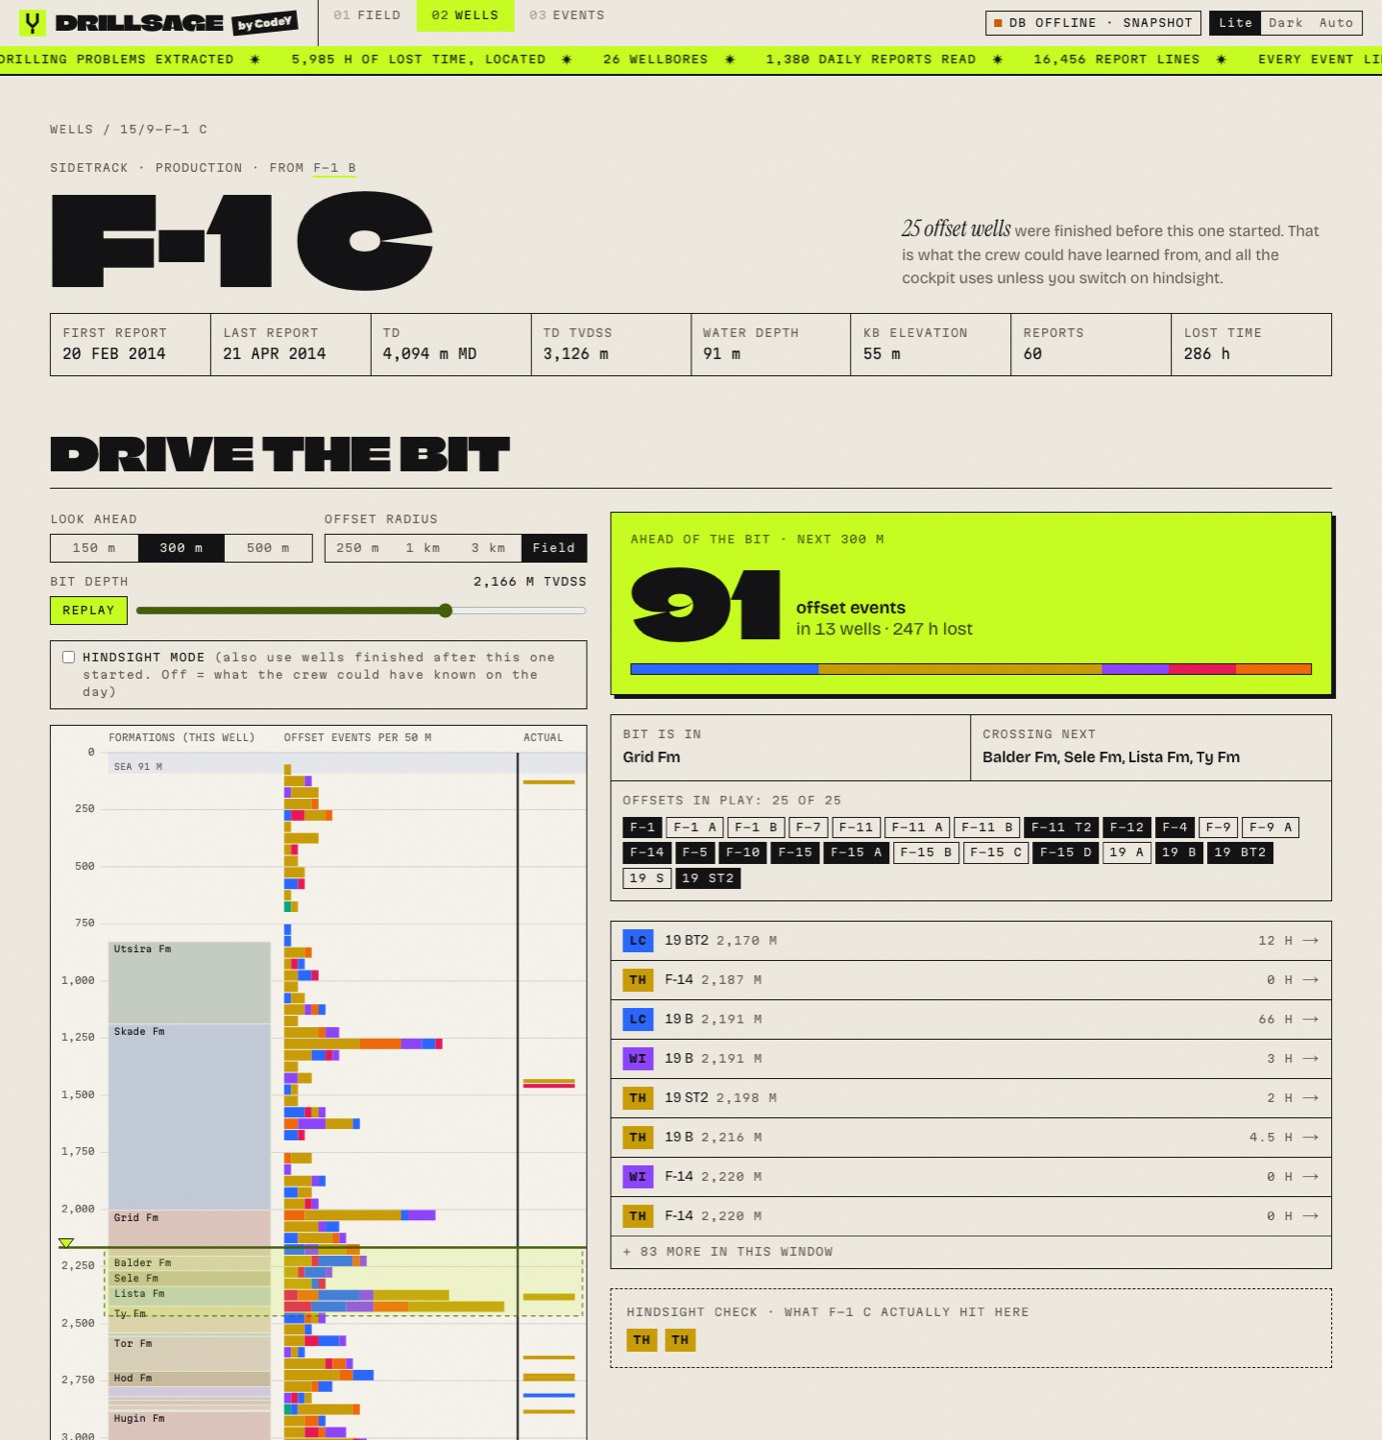
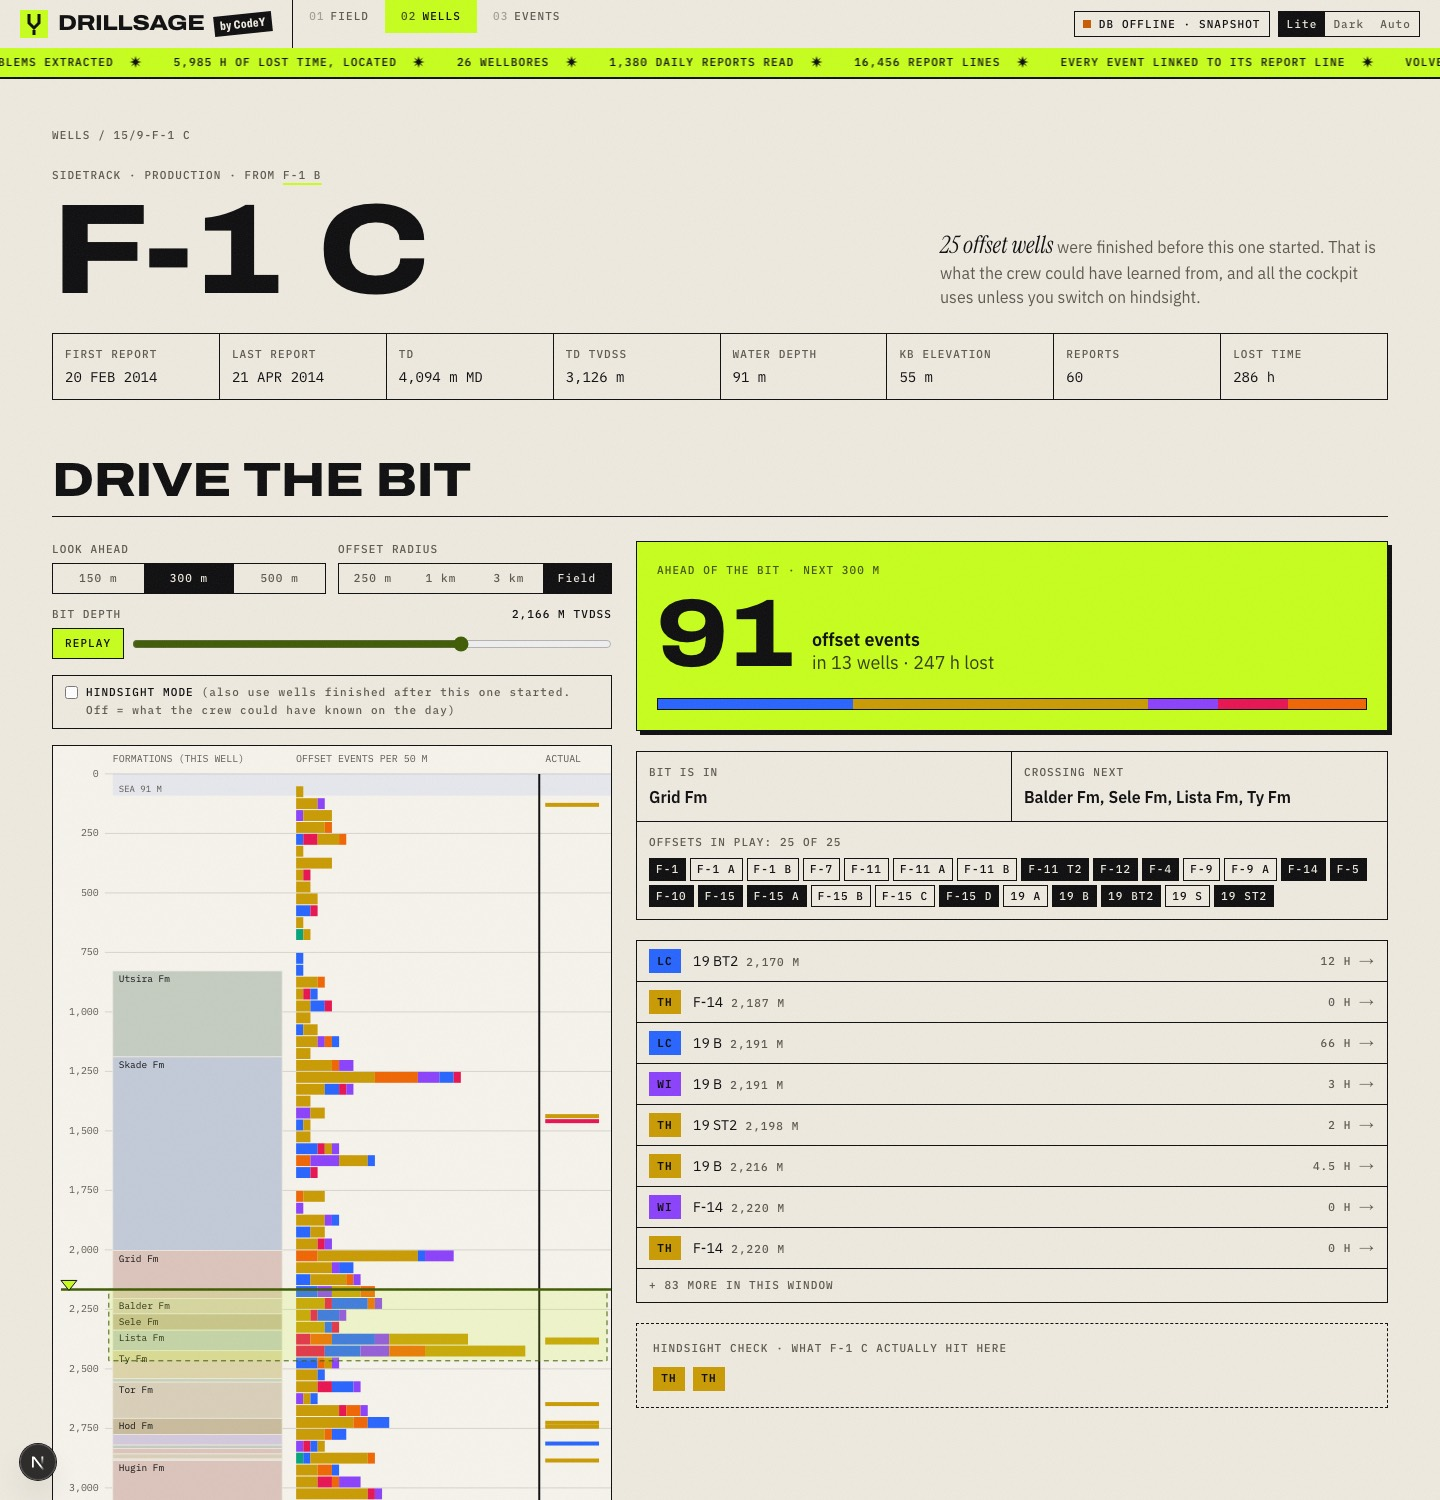
style(web): formal type system (Archivo, IBM Plex Sans and Mono) and refreshed screenshots

diff --git a/apps/web/src/app/globals.css b/apps/web/src/app/globals.css
@@ -117,9 +117,9 @@
   --color-shadow: var(--shadow);
   --font-sans: var(--font-body);
   --font-mono: var(--font-data);
-  --font-display: var(--font-melt);
+  --font-display: var(--font-display-face);
   --font-serif: var(--font-accent);
-  --font-glitch: var(--font-sticker);
+  --font-glitch: var(--font-display-face);
 
   --animate-marquee: marquee 38s linear infinite;
   --animate-blink: blink 1.1s steps(1) infinite;
@@ -132,12 +132,6 @@
   }
   to {
     transform: translateX(-50%);
-  }
-}
-
-@keyframes jitter {
-  50% {
-    transform: translate(0.02em, -0.015em) skewX(-2deg);
   }
 }
 
@@ -233,34 +227,35 @@
 }
 
 @layer components {
-  /* Climate Crisis: its YEAR axis melts the letters from 1979 (full) to 2050 (thin). */
-  .melt {
-    font-family: var(--font-melt);
-    font-variation-settings: "YEAR" 1979;
-    transition: font-variation-settings 900ms cubic-bezier(0.2, 0.8, 0.2, 1);
-    line-height: 0.86;
-    letter-spacing: -0.01em;
+  /* Headlines: Archivo, extra bold and widened like engineering signage. On hover the width
+     eases back to normal: a subtle "breath", readable at every moment. */
+  .headline {
+    font-family: var(--font-display-face);
+    font-weight: 800;
+    font-variation-settings: "wdth" 118;
+    transition: font-variation-settings 700ms cubic-bezier(0.2, 0.8, 0.2, 1);
+    line-height: 0.92;
+    letter-spacing: -0.015em;
   }
-  /* Hover melts only part-way (still readable) and splits into lime/pink like a bad signal. */
-  .melt-hover:hover .melt,
-  .melt.melt-hover:hover {
-    font-variation-settings: "YEAR" 2012;
-    text-shadow:
-      0.045em 0 0 var(--hz-wc),
-      -0.045em 0 0 var(--brand);
-    animation: jitter 180ms steps(2) 3;
+  .headline-hover:hover .headline,
+  .headline.headline-hover:hover {
+    font-variation-settings: "wdth" 100;
   }
-  .melt-thin {
-    font-variation-settings: "YEAR" 2035;
+
+  /* Sticker tags: the same family, condensed and heavy, like a safety label. */
+  .font-glitch {
+    font-weight: 800;
+    font-variation-settings: "wdth" 72;
+    letter-spacing: 0.03em;
   }
 
   /* Mono labels: wide, small, tracked. */
   .label {
     font-family: var(--font-data);
     font-size: 0.6875rem;
-    letter-spacing: 0.08em;
+    font-weight: 500;
+    letter-spacing: 0.1em;
     text-transform: uppercase;
-    font-variation-settings: "wdth" 112.5;
   }
 
   /* Hard offset shadow: the sticker look. */

diff --git a/apps/web/src/app/layout.tsx b/apps/web/src/app/layout.tsx
@@ -1,11 +1,5 @@
 import type { Metadata, Viewport } from "next";
-import {
-  Bricolage_Grotesque,
-  Climate_Crisis,
-  Instrument_Serif,
-  Martian_Mono,
-  Rubik_Glitch,
-} from "next/font/google";
+import { Archivo, IBM_Plex_Mono, IBM_Plex_Sans, Instrument_Serif } from "next/font/google";
 import type { ReactNode } from "react";
 
 import { AppShell } from "@/components/app-shell";
@@ -14,17 +8,19 @@ import { TAGLINE } from "@/lib/constants";
 
 import "./globals.css";
 
-/** Display: Climate Crisis. Its YEAR axis melts the letters; hover the wordmark. */
-const melt = Climate_Crisis({ variable: "--font-melt", subsets: ["latin"], axes: ["YEAR"] });
-/** Data and labels: a wide monospace, so depths line up like a mud log. */
-const data = Martian_Mono({ variable: "--font-data", subsets: ["latin"], axes: ["wdth"] });
-/** Stickers and team branding: a glitched grotesque. */
-const glitch = Rubik_Glitch({ variable: "--font-sticker", subsets: ["latin"], weight: "400" });
-const body = Bricolage_Grotesque({
-  variable: "--font-body",
+/** Headlines, wordmark, big numbers and stickers: Archivo, whose width axis we widen for display. */
+const display = Archivo({
+  variable: "--font-display-face",
   subsets: ["latin"],
-  axes: ["opsz", "wdth"],
+  axes: ["wdth"],
 });
+/** Data and labels: a report-style monospace, so depths line up like a mud log. */
+const data = IBM_Plex_Mono({
+  variable: "--font-data",
+  subsets: ["latin"],
+  weight: ["400", "500", "600"],
+});
+const body = IBM_Plex_Sans({ variable: "--font-body", subsets: ["latin"], axes: ["wdth"] });
 const accent = Instrument_Serif({
   variable: "--font-accent",
   subsets: ["latin"],
@@ -53,9 +49,7 @@ export const viewport: Viewport = {
 export default function RootLayout({ children }: Readonly<{ children: ReactNode }>) {
   return (
     <html lang="en" suppressHydrationWarning>
-      <body
-        className={`${melt.variable} ${data.variable} ${body.variable} ${accent.variable} ${glitch.variable}`}
-      >
+      <body className={`${display.variable} ${data.variable} ${body.variable} ${accent.variable}`}>
         <ThemeProvider
           attribute="class"
           defaultTheme="light"

diff --git a/apps/web/src/app/page.tsx b/apps/web/src/app/page.tsx
@@ -121,7 +121,7 @@ export default async function FieldPage() {
               Oil India Ltd
             </li>
           </ul>
-          <h1 className="melt melt-hover text-[clamp(2.25rem,9.5vw,9rem)] uppercase">
+          <h1 className="headline headline-hover text-[clamp(2.25rem,9.5vw,9rem)] uppercase">
             See{" "}
             <span className="inline-block -rotate-2 bg-brand px-[0.08em] text-brand-foreground">
               trouble
@@ -169,7 +169,7 @@ export default async function FieldPage() {
             className={`flex flex-col gap-3 p-5 md:p-7 ${i > 0 ? "border-l" : ""} ${i > 1 ? "max-lg:border-t" : ""} ${i === 2 ? "max-lg:border-l-0" : ""}`}
           >
             <span className="label text-muted-foreground">{stat.label}</span>
-            <span className="melt text-[clamp(1.75rem,3.7vw,3.9rem)] whitespace-nowrap">
+            <span className="headline text-[clamp(1.75rem,3.7vw,3.9rem)] whitespace-nowrap">
               {stat.value}
             </span>
             <span className="label text-brand-text">{stat.note}</span>
@@ -200,9 +200,9 @@ export default async function FieldPage() {
         <SectionHead title="How it works" />
         <ol className="grid gap-4 md:grid-cols-3">
           {STEPS.map((step) => (
-            <li key={step.n} className="melt-hover brutal flex flex-col gap-4 bg-surface p-6">
-              <span className="melt text-7xl text-brand-text">{step.n}</span>
-              <h3 className="melt text-3xl uppercase">{step.title}</h3>
+            <li key={step.n} className="headline-hover brutal flex flex-col gap-4 bg-surface p-6">
+              <span className="headline text-7xl text-brand-text">{step.n}</span>
+              <h3 className="headline text-3xl uppercase">{step.title}</h3>
               <p className="leading-relaxed text-pretty text-muted-foreground">{step.body}</p>
             </li>
           ))}

diff --git a/apps/web/src/app/events/page.tsx b/apps/web/src/app/events/page.tsx
@@ -113,7 +113,7 @@ export default async function EventsPage({ searchParams }: { searchParams: Searc
     <div className="mx-auto flex max-w-[1400px] flex-col gap-10 px-4 pt-10 md:px-8 md:pt-16">
       <header className="grid items-end gap-6 lg:grid-cols-[1fr_auto]">
         <div className="flex flex-col gap-4">
-          <h1 className="melt text-[clamp(2rem,8vw,7rem)] uppercase">The logbook.</h1>
+          <h1 className="headline text-[clamp(2rem,8vw,7rem)] uppercase">The logbook.</h1>
           <p className="max-w-2xl text-lg text-pretty text-muted-foreground">
             Every problem DrillSage pulled out of the daily reports, with the words that gave it
             away highlighted in the original text.
@@ -121,7 +121,7 @@ export default async function EventsPage({ searchParams }: { searchParams: Searc
         </div>
         <div className="brutal bg-surface px-5 py-4">
           <p className="label text-muted-foreground">Matching</p>
-          <p className="melt text-6xl">{int(page.total)}</p>
+          <p className="headline text-6xl">{int(page.total)}</p>
           <p className="label text-brand-text">{hours(page.npt_h)} lost</p>
         </div>
       </header>
@@ -198,7 +198,7 @@ export default async function EventsPage({ searchParams }: { searchParams: Searc
 
       {page.items.length === 0 ? (
         <div className="border border-dashed px-6 py-16 text-center">
-          <p className="melt text-4xl uppercase">Dry hole.</p>
+          <p className="headline text-4xl uppercase">Dry hole.</p>
           <p className="mt-3 text-muted-foreground">
             Nothing matches. Loosen a filter or search for something else.
           </p>

diff --git a/apps/web/src/app/wells/page.tsx b/apps/web/src/app/wells/page.tsx
@@ -62,7 +62,7 @@ function WellCard({
   return (
     <Link
       href={`/wells/${wellSlug(well.name)}`}
-      className="melt-hover brutal-hover group flex gap-4 border bg-surface p-4 hover:border-foreground"
+      className="headline-hover brutal-hover group flex gap-4 border bg-surface p-4 hover:border-foreground"
     >
       <MiniStrip well={well} events={events.filter((e) => e.geological)} maxDepth={maxDepth} />
       <div className="flex min-w-0 flex-1 flex-col justify-between gap-3">
@@ -71,7 +71,7 @@ function WellCard({
             {well.kind.replaceAll("_", " ")}
             {well.parent_name && ` of ${shortName(well.parent_name)}`}
           </p>
-          <h3 className="melt mt-1 text-3xl uppercase">{shortName(well.name)}</h3>
+          <h3 className="headline mt-1 text-3xl uppercase">{shortName(well.name)}</h3>
         </div>
         <dl className="label grid grid-cols-2 gap-x-3 gap-y-1 text-muted-foreground">
           <dt>Events</dt>
@@ -104,7 +104,7 @@ export default async function WellsPage() {
   return (
     <div className="mx-auto flex max-w-[1400px] flex-col gap-16 px-4 pt-10 md:px-8 md:pt-16">
       <header className="flex flex-col gap-4">
-        <h1 className="melt text-[clamp(2rem,8vw,7rem)] uppercase">
+        <h1 className="headline text-[clamp(2rem,8vw,7rem)] uppercase">
           {field.wellbores.length} holes
           <br />
           in the ground.

diff --git a/apps/web/src/components/wordmark.tsx b/apps/web/src/components/wordmark.tsx
@@ -1,18 +1,18 @@
 import { cn } from "@/lib/utils";
 
 /**
- * The DrillSage wordmark: a lime bit-block and the name set in Climate Crisis, whose letters
- * melt when hovered. The block's notch is the bit; the bar under it is the hole.
+ * The DrillSage wordmark: a lime bit-block and the name in widened Archivo, which eases to its
+ * normal width when hovered. The block's notch is the bit; the bar under it is the hole.
  */
 export function Wordmark({ className }: { className?: string }) {
   return (
-    <span className={cn("melt-hover inline-flex items-center gap-2.5", className)}>
+    <span className={cn("headline-hover inline-flex items-center gap-2.5", className)}>
       <svg viewBox="0 0 28 28" className="size-7 shrink-0" aria-hidden>
         <rect width="28" height="28" className="fill-brand" />
         <path d="M9 4v9l5 5 5-5V4" className="fill-none stroke-brand-foreground" strokeWidth="3" />
         <rect x="12.5" y="20" width="3" height="5" className="fill-brand-foreground" />
       </svg>
-      <span className="melt text-[1.35rem] tracking-tight uppercase">DrillSage</span>
+      <span className="headline text-[1.35rem] tracking-tight uppercase">DrillSage</span>
     </span>
   );
 }

diff --git a/apps/web/src/app/events/[id]/page.tsx b/apps/web/src/app/events/[id]/page.tsx
@@ -88,7 +88,7 @@ export default async function EventPage({ params }: Params) {
           </span>
         </div>
         <h1
-          className="melt melt-hover text-[clamp(2rem,7vw,6rem)] uppercase"
+          className="headline headline-hover text-[clamp(2rem,7vw,6rem)] uppercase"
           style={{ color: meta.color }}
         >
           {meta.label}
@@ -164,7 +164,7 @@ export default async function EventPage({ params }: Params) {
         className="perforated self-start bg-[#f4f1e8] px-6 py-9 font-mono text-[#0b0b0c] shadow-[8px_8px_0_0_var(--shadow)] md:px-8"
       >
         <header className="flex flex-col items-center gap-1 border-b border-dashed border-[#0b0b0c]/40 pb-4 text-center">
-          <span className="melt text-2xl uppercase">DrillSage</span>
+          <span className="headline text-2xl uppercase">DrillSage</span>
           <span className="text-[11px] tracking-[0.2em] uppercase">Evidence receipt</span>
           <span className="text-[11px]">
             #{String(event.id).padStart(6, "0")} &middot; {day(event.start_at)}

diff --git a/apps/web/src/app/wells/[slug]/page.tsx b/apps/web/src/app/wells/[slug]/page.tsx
@@ -70,7 +70,7 @@ export default async function WellPage({ params }: Params) {
           / {well.name}
         </nav>
         <div className="flex flex-wrap items-end justify-between gap-6">
-          <div className="melt-hover">
+          <div className="headline-hover">
             <p className="label text-muted-foreground">
               {well.kind.replaceAll("_", " ")} &middot; {well.purpose ?? well.era}
               {parent && (
@@ -86,7 +86,7 @@ export default async function WellPage({ params }: Params) {
                 </>
               )}
             </p>
-            <h1 className="melt mt-2 text-[clamp(2.5rem,10vw,8rem)] uppercase">
+            <h1 className="headline mt-2 text-[clamp(2.5rem,10vw,8rem)] uppercase">
               {shortName(well.name)}
             </h1>
           </div>

diff --git a/apps/web/src/components/no-signal.tsx b/apps/web/src/components/no-signal.tsx
@@ -4,7 +4,7 @@ export function NoSignal({ reason }: { reason: string }) {
     <div className="mx-auto max-w-3xl px-4 py-24 md:px-8">
       <div className="brutal bg-surface p-6 md:p-10">
         <p className="label text-danger">No signal from the rig</p>
-        <h1 className="melt mt-3 text-5xl uppercase md:text-7xl">Dead air.</h1>
+        <h1 className="headline mt-3 text-5xl uppercase md:text-7xl">Dead air.</h1>
         <p className="mt-6 text-lg text-pretty">{reason}</p>
         <pre className="label mt-6 overflow-x-auto border bg-background p-4 leading-6 normal-case">
           {

diff --git a/apps/web/src/app/not-found.tsx b/apps/web/src/app/not-found.tsx
@@ -4,7 +4,7 @@ export default function NotFound() {
   return (
     <div className="mx-auto flex max-w-3xl flex-col items-start gap-6 px-4 py-24 md:px-8">
       <p className="label text-muted-foreground">404</p>
-      <h1 className="melt melt-hover text-[clamp(3rem,12vw,9rem)] uppercase">Dry hole.</h1>
+      <h1 className="headline headline-hover text-[clamp(3rem,12vw,9rem)] uppercase">Dry hole.</h1>
       <p className="text-lg text-muted-foreground">
         We drilled here and found nothing. The page, well or event does not exist.
       </p>

diff --git a/apps/web/src/app/loading.tsx b/apps/web/src/app/loading.tsx
@@ -3,7 +3,7 @@ export default function Loading() {
     <div className="mx-auto flex max-w-[1400px] flex-col gap-6 px-4 py-24 md:px-8" role="status">
       <div className="flex items-center gap-4">
         <span className="h-10 w-2 animate-scan bg-brand" aria-hidden />
-        <p className="melt text-4xl uppercase md:text-6xl">Tripping in&hellip;</p>
+        <p className="headline text-4xl uppercase md:text-6xl">Tripping in&hellip;</p>
       </div>
       <p className="label text-muted-foreground">Loading reports from the field</p>
     </div>

diff --git a/apps/web/src/components/lookahead-strip.tsx b/apps/web/src/components/lookahead-strip.tsx
@@ -456,7 +456,7 @@ export function LookaheadStrip({
         >
           <p className="label opacity-70">Ahead of the bit &middot; next {aheadM} m</p>
           <div className="mt-2 flex items-end gap-4">
-            <span className="melt text-8xl leading-none">{ahead.length}</span>
+            <span className="headline text-8xl leading-none">{ahead.length}</span>
             <span className="pb-2 text-lg leading-tight font-semibold">
               {ahead.length === 1 ? "offset event" : "offset events"}
               <br />
